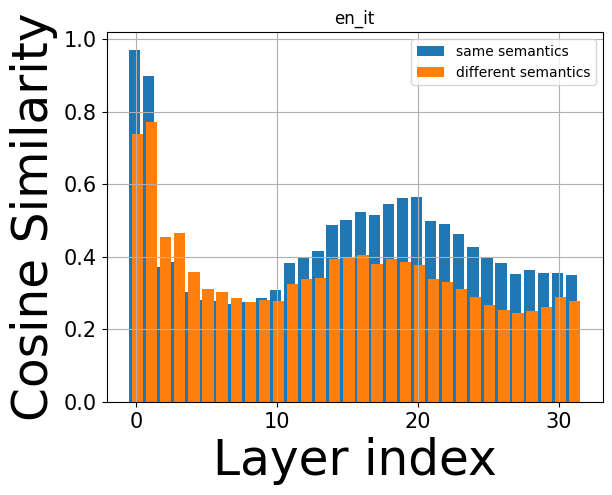
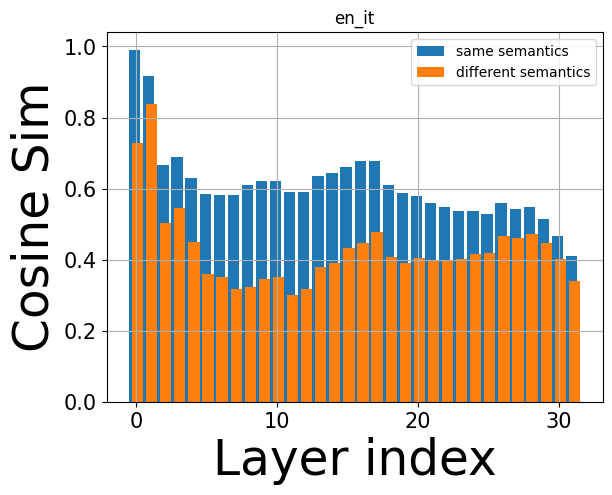
update/images

diff --git a/activated_neuron/new_neurons/transfer_neurons/funcs.py b/activated_neuron/new_neurons/transfer_neurons/funcs.py
@@ -441,6 +441,24 @@ def get_all_outputs_llama3_mistral(model, prompt, device):
     
     return MLP_act_values, up_proj_values, ATT_values, outputs
 
+def get_all_outputs_llama3_mistral(model, prompt, device):
+    model.eval()
+    num_layers = model.config.num_hidden_layers
+    MLP_act = [f"model.layers.{i}.mlp.act_fn" for i in range(num_layers)]
+    MLP_up_proj = [f"model.layers.{i}.mlp.up_proj" for i in range(num_layers)]
+    ATT_act = [f"model.layers.{i}.self_attn.o_proj" for i in range(num_layers)]
+    # ATT_act = [f"model.layers.{i}.post_attention_layernorm" for i in range(num_layers)]
+
+    with TraceDict(model, MLP_act + MLP_up_proj + ATT_act) as ret:
+        with torch.no_grad():
+            outputs = model(prompt, output_hidden_states=True, output_attentions=True)
+    
+    MLP_act_values = [ret[act].output for act in MLP_act]
+    up_proj_values = [ret[proj].output for proj in MLP_up_proj]
+    ATT_values = [ret[att].output for att in ATT_act]
+    
+    return MLP_act_values, up_proj_values, ATT_values, outputs
+
 def compute_scores_optimized(model, tokenizer, device, data, candidate_neurons, centroids, score_type):
     """
     Optimized function to compute scores using batched inference.
@@ -459,7 +477,7 @@ def compute_scores_optimized(model, tokenizer, device, data, candidate_neurons, 
         MLP_act_values, up_proj_values, post_attention_values, outputs = get_all_outputs_llama3_mistral(model, inputs.input_ids, device)
 
         # Extract hidden states (ht), attention layer outputs, and MLP activations
-        ht_all_layer = outputs.hidden_states[1:] # remove 0th layer(embedding layer).
+        ht_all_layer = outputs.hidden_states # including 0th layer(embedding layer). <- emb(0th) layer is needed to calc score of 1th layer.
         token_len = inputs.input_ids.size(1)
         last_token_idx = token_len - 1
 
@@ -468,7 +486,7 @@ def compute_scores_optimized(model, tokenizer, device, data, candidate_neurons, 
         for layer_idx, neurons in candidate_neurons.items():
             c = centroids[layer_idx].reshape(1, -1) # centroid of the layer.
             # i-th layer hidden_state.
-            ht_pre = ht_all_layer[layer_idx-1][:, last_token_idx, :].squeeze().detach().cpu().numpy()
+            ht_pre = ht_all_layer[layer_idx][:, last_token_idx, :].squeeze().detach().cpu().numpy()
             # i-th layer attention output.
             atts = post_attention_values[layer_idx][:, last_token_idx, :].squeeze().detach().cpu().numpy()
             # i-th layer activation values (act_fn(x) * up_proj(x))
@@ -483,28 +501,87 @@ def compute_scores_optimized(model, tokenizer, device, data, candidate_neurons, 
             elif score_type == "cos_sim":
                 layer_score = cosine_similarity(layer_score, c)[0, 0]
 
-            # score for each neurons.
-            for neuron_idx in neurons:
-                # get value vector cerresponding to the neuron.
-                value_vector = model.model.layers[layer_idx].mlp.down_proj.weight.T.data[neuron_idx].detach().cpu().numpy()
-                score = (ht_pre + atts + (acts[neuron_idx] * value_vector)).reshape(1, -1)
-                
-                if score_type == "L2_dis":
-                    score = euclidean_distances(score, c)[0, 0]
-                    score = abs(layer_score - score) if score <= layer_score else abs(layer_score - score) * -1
-                elif score_type == "cos_sim":
-                    score = cosine_similarity(score, c)[0, 0]
-                    score = abs(layer_score - score) if score >= layer_score else abs(layer_score - score) * -1
-                final_scores_save[layer_idx, neuron_idx, text_idx] = score
+            neuron_indices = np.array(candidate_neurons[layer_idx])
+            value_vectors = model.model.layers[layer_idx].mlp.down_proj.weight.T.data[neuron_indices].detach().cpu().numpy()
+            scores = (ht_pre + atts + (acts.reshape(-1, 1) * value_vectors))
+            if score_type == "L2_dis":
+                scores = euclidean_distances(scores, c).reshape(-1)
+                scores = np.where(scores <= layer_score, abs(layer_score - scores), -abs(layer_score - scores))
+            elif score_type == "cos_sim":
+                scores = cosine_similarity(scores, c).reshape(-1)  # (14336,)
+                scores = np.where(scores >= layer_score, abs(layer_score - scores), -abs(layer_score - scores))
+            # save resulting scores.
+            final_scores_save[layer_idx, :, text_idx] = scores
 
     # Calculate mean score for each neuron
     final_scores[:, :] = np.mean(final_scores_save, axis=2)
-    # for layer_idx in range(num_candidate_layers):
-    #     for neuron_idx in range(num_neurons):
-    #         mean_score = np.mean(final_scores_save[layer_idx, neuron_idx, :])
-    #         final_scores[layer_idx, neuron_idx, 0] = mean_score
 
     return final_scores
+
+# def compute_scores_optimized(model, tokenizer, device, data, candidate_neurons, centroids, score_type):
+#     """
+#     Optimized function to compute scores using batched inference.
+#     """
+#     num_layers = model.config.num_hidden_layers
+#     num_candidate_layers = len(candidate_neurons.keys())
+#     num_neurons = 14336
+#     final_scores_save = np.zeros((num_candidate_layers, num_neurons, len(data))) # final_scoreを計算する前の保存用
+#     final_scores = np.zeros((num_candidate_layers, num_neurons))
+
+#     for text_idx, text in enumerate(data):
+#         # Tokenize all input data at once
+#         inputs = tokenizer(text, return_tensors="pt").to(device)
+
+#         # Perform the forward pass once to get all necessary values
+#         MLP_act_values, up_proj_values, post_attention_values, outputs = get_all_outputs_llama3_mistral(model, inputs.input_ids, device)
+
+#         # Extract hidden states (ht), attention layer outputs, and MLP activations
+#         ht_all_layer = outputs.hidden_states[1:] # remove 0th layer(embedding layer).
+#         token_len = inputs.input_ids.size(1)
+#         last_token_idx = token_len - 1
+
+#         # Score calculation based on type (L2 distance or cosine similarity)
+#         # c = np.mean(centroids[5:21], axis=0).reshape(1, -1) # centroids: mean of c for 5-20layers.
+#         for layer_idx, neurons in candidate_neurons.items():
+#             c = centroids[layer_idx].reshape(1, -1) # centroid of the layer.
+#             # i-th layer hidden_state.
+#             ht_pre = ht_all_layer[layer_idx-1][:, last_token_idx, :].squeeze().detach().cpu().numpy()
+#             # i-th layer attention output.
+#             atts = post_attention_values[layer_idx][:, last_token_idx, :].squeeze().detach().cpu().numpy()
+#             # i-th layer activation values (act_fn(x) * up_proj(x))
+#             act_fn = MLP_act_values[layer_idx][:, last_token_idx, :].squeeze().detach().cpu().numpy()
+#             up_proj = up_proj_values[layer_idx][:, last_token_idx, :].squeeze().detach().cpu().numpy()
+#             acts = calc_element_wise_product(act_fn, up_proj)
+
+#             # layer_score.
+#             layer_score = (ht_pre + atts).reshape(1, -1) # H^l-1 * Att^l
+#             if score_type == "L2_dis":
+#                 layer_score = euclidean_distances(layer_score, c)[0, 0]
+#             elif score_type == "cos_sim":
+#                 layer_score = cosine_similarity(layer_score, c)[0, 0]
+
+#             # score for each neurons.
+#             for neuron_idx in neurons:
+#                 # get value vector cerresponding to the neuron.
+#                 value_vector = model.model.layers[layer_idx].mlp.down_proj.weight.T.data[neuron_idx].detach().cpu().numpy()
+#                 score = (ht_pre + atts + (acts[neuron_idx] * value_vector)).reshape(1, -1)
+                
+#                 if score_type == "L2_dis":
+#                     score = euclidean_distances(score, c)[0, 0]
+#                     score = abs(layer_score - score) if score <= layer_score else abs(layer_score - score) * -1
+#                 elif score_type == "cos_sim":
+#                     score = cosine_similarity(score, c)[0, 0]
+#                     score = abs(layer_score - score) if score >= layer_score else abs(layer_score - score) * -1
+#                 final_scores_save[layer_idx, neuron_idx, text_idx] = score
+
+#     # Calculate mean score for each neuron
+#     final_scores[:, :] = np.mean(final_scores_save, axis=2)
+#     # for layer_idx in range(num_candidate_layers):
+#     #     for neuron_idx in range(num_neurons):
+#     #         mean_score = np.mean(final_scores_save[layer_idx, neuron_idx, :])
+#     #         final_scores[layer_idx, neuron_idx, 0] = mean_score
+
+#     return final_scores
 
 def sort_neurons_by_score(final_scores):
     # # (layer_num, neuron_num, 1) → (layer_num, neuron_num) に変換

diff --git a/activated_neuron/new_neurons/transfer_neurons/mistral/get_transfers.py b/activated_neuron/new_neurons/transfer_neurons/mistral/get_transfers.py
@@ -57,8 +57,8 @@ for L2 in langs:
         sorted_neurons, score_dict = sort_neurons_by_score(scores) # np用
         
         # save as pkl.
-        sorted_neurons_path = f"/home/s2410121/proj_LA/activated_neuron/new_neurons/pickles/transfer_neurons/mistral/final_scores/{score_type}/{L2}.pkl"
-        score_dict_path = f"/home/s2410121/proj_LA/activated_neuron/new_neurons/pickles/transfer_neurons/mistral/final_scores/{score_type}/{L2}_score_dict.pkl"
+        sorted_neurons_path = f"/home/s2410121/proj_LA/activated_neuron/new_neurons/pickles/transfer_neurons/mistral/final_scores/{score_type}/{L2}_revised.pkl"
+        score_dict_path = f"/home/s2410121/proj_LA/activated_neuron/new_neurons/pickles/transfer_neurons/mistral/final_scores/{score_type}/{L2}_score_dict_revised.pkl"
         save_as_pickle(sorted_neurons_path, sorted_neurons)
         save_as_pickle(score_dict_path, score_dict)
         print("saved scores for: {L2}.")

diff --git a/activated_neuron/new_neurons/transfer_neurons/llama3/get_transfers.py b/activated_neuron/new_neurons/transfer_neurons/llama3/get_transfers.py
@@ -57,8 +57,8 @@ for L2 in langs:
         sorted_neurons, score_dict = sort_neurons_by_score(scores) # np用
         
         # save as pkl.
-        sorted_neurons_path = f"/home/s2410121/proj_LA/activated_neuron/new_neurons/pickles/transfer_neurons/llama3/final_scores/{score_type}/{L2}.pkl"
-        score_dict_path = f"/home/s2410121/proj_LA/activated_neuron/new_neurons/pickles/transfer_neurons/llama3/final_scores/{score_type}/{L2}_score_dict.pkl"
+        sorted_neurons_path = f"/home/s2410121/proj_LA/activated_neuron/new_neurons/pickles/transfer_neurons/llama3/final_scores/{score_type}/{L2}_revised.pkl"
+        score_dict_path = f"/home/s2410121/proj_LA/activated_neuron/new_neurons/pickles/transfer_neurons/llama3/final_scores/{score_type}/{L2}_score_dict_revised.pkl"
         save_as_pickle(sorted_neurons_path, sorted_neurons)
         save_as_pickle(score_dict_path, score_dict)
         print("saved scores for: {L2}.")
